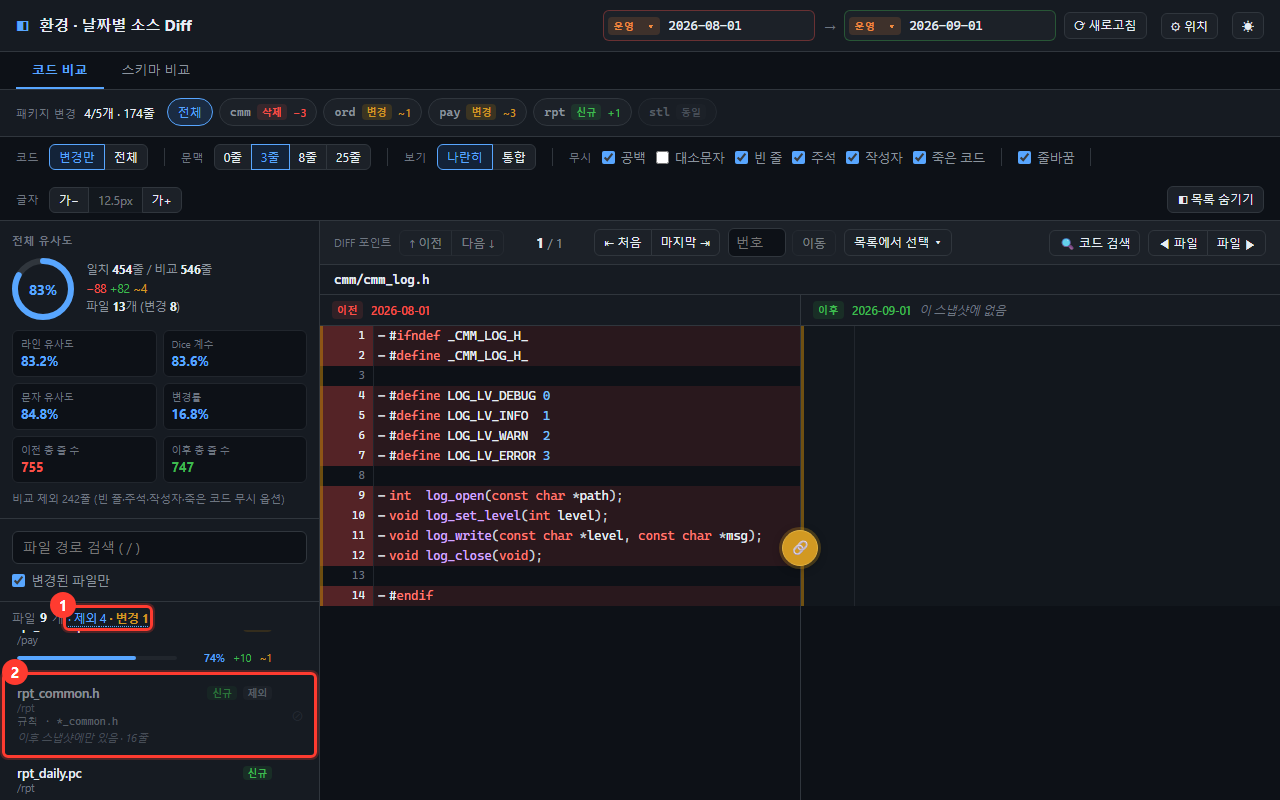
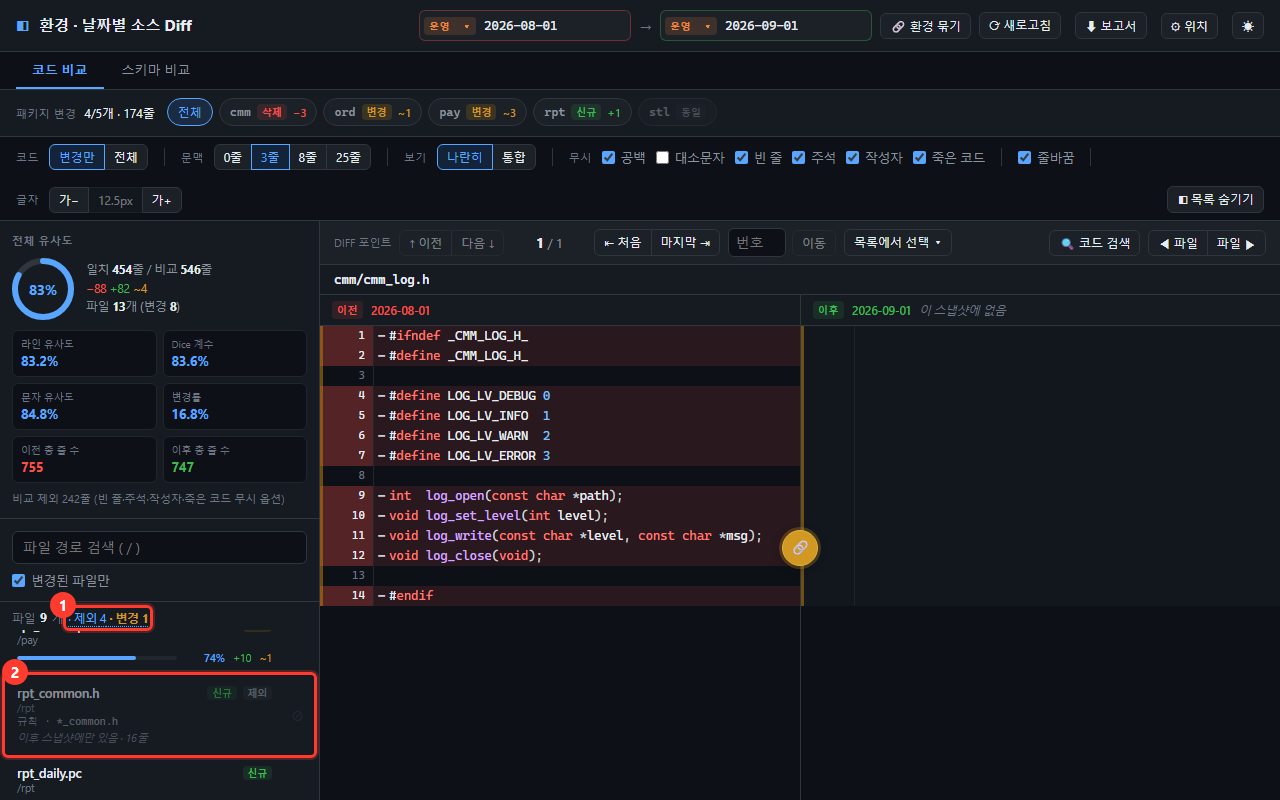
docs: 보고서 내려받기를 문서에 반영하고 그림을 다시 찍는다
사용설명서에 "8. 보고서 내려받기" 를 새로 두고 뒤의 장 번호를 한 칸씩 밀었다
(안에서 걸던 "아래 9번" 도 10번으로). 받은 파일이 어떻게 생겼는지 예시를 그대로
싣는다 — 공지에 붙이기 전에 무엇이 들어가는지 먼저 알아야 한다. 화면 한눈에 보기에서도
8번으로 건너가게 했다.

README 에는 개발자가 알아야 할 것만 — 서버를 안 거친다(API 변경 없음), 숫자는 화면과
같은 기준, 스키마는 누를 때 읽는다, 본문은 안 싣는다, BOM. 폴더 구조에 report/ 를 더했다.

헤더에 버튼이 둘(🔗 환경 묶기 · ⬇ 보고서) 늘어 그림 8장을 다시 찍고, 버튼 자리를
짚는 09-report 를 더했다. 그 장면은 비교가 끝나 버튼이 살아난 뒤에 찍는다.

diff --git a/scripts/shot.html b/scripts/shot.html
@@ -185,6 +185,12 @@
           mark(doc, folded, 2, 4)
         },
 
+        /* 9. 보고서 내려받기 — 버튼 자리. 비교가 끝나 버튼이 살아난 뒤에 찍는다 */
+        async report(doc) {
+          await until(() => !byText(doc, 'button', '보고서')?.disabled)
+          mark(doc, byText(doc, 'button', '보고서'), 1, 4)
+        },
+
         /* 6. 코드 비교 화면 */
         async diff(doc) {
           mark(doc, '.optionbar', 1, 3)
@@ -195,6 +201,7 @@
 
       const ENV = {
         crossenv: { left: 'prod', right: 'test' },
+        report: { left: 'prod', right: 'test' },
         schema: { left: 'prod', right: 'test' },
       }
 

diff --git a/README.md b/README.md
@@ -292,7 +292,7 @@ export const DEFAULT_ENV_ID = 'prod'
 
 | 영역 | 하는 일 |
 | ---- | ------- |
-| 상단 헤더 | 좌우 각각의 **환경 + 날짜 폴더** 선택, 환경 묶기(🔗), 외부 폴더 다시 읽기(⟳) |
+| 상단 헤더 | 좌우 각각의 **환경 + 날짜 폴더** 선택, 환경 묶기(🔗), 외부 폴더 다시 읽기(⟳), **보고서 내려받기(⬇)** |
 | 모드 탭 | `코드 비교` / `스키마 비교`. 좌우 선택은 그대로 두고 아래 3단만 갈린다 |
 | 패키지 변경 밴드 | 어느 패키지가 신규·삭제·변경됐는지 한 줄 요약. 칩을 누르면 그 패키지로 파일 목록이 좁혀진다 |
 | 옵션 바 | 코드 표시 범위(변경만/전체), 문맥 줄 수, 나란히/통합, 무시 옵션(아래), **코드 글자 크기** |
@@ -538,6 +538,20 @@ IX_*_TMP          이름이 맞는 인덱스·제약 (어느 테이블이든)
 
 ---
 
+## 보고서 내려받기
+
+헤더의 **⬇ 보고서** 가 지금 비교를 공지용 md 로 내려받는다 (`src/features/report/`).
+맨 위 표(환경 · 종류 · 변경 건수 · 날짜) 하나와 바뀐 파일·테이블 목록뿐이다.
+
+- **서버를 거치지 않는다.** 화면이 들고 있는 비교 결과로 만들어 브라우저에서 바로 받는다. API 변경 없음.
+- **숫자는 화면과 같다.** 제외 목록·내 목록·스키마 종류 토글로 접은 것은 빼고 센다.
+- **스키마는 누를 때 읽는다.** 스키마는 탭을 열 때만 읽으므로, 코드 탭에서 누르면 화면과 같은
+  순서(날짜 목록 → 날짜 맞추기 → 대조 → 접기)로 그 자리에서 읽는다. 실패하면 소스만 담고 알림을 띄운다.
+- **소스 본문은 넣지 않는다.** 공지로 퍼지는 문서라 코드가 실려 돌아다니면 안 된다.
+- UTF-8 BOM 을 붙인다 — 없으면 윈도우 메모장 일부 버전이 한글을 깨뜨린다.
+
+---
+
 ## 단축키
 
 | 키 | 동작 |
@@ -597,6 +611,7 @@ src/
     files/                  파일 목록
     diff/                   diff 뷰어 · 이동 · 검색
     summary/                전체 유사도 카드
+    report/                 공지용 md 보고서 만들기 (소스·스키마 변경 건수와 목록)
 
 sample-code/                예시 외부 폴더
   prod/                     운영 — 날짜 스냅샷 4개

diff --git a/docs/한일/2026-10-21.md b/docs/한일/2026-10-21.md
@@ -20,3 +20,29 @@
 ## 외부 API 변경
 
 없음. 환경은 원래 루트 경로에 붙어 나가는 값이라 서버 요청 모양이 그대로다.
+
+---
+
+# 2026-10-21 — 비교 결과를 공지용 md 보고서로 내려받는다
+
+## 왜
+
+비교 결과를 사내에 공지하려면 화면을 캡처하거나 숫자를 손으로 옮겨 적어야 했다.
+옮기다 틀린 숫자가 공지로 나가면 바로잡기 어렵다.
+
+## 무엇을 했나
+
+- 헤더에 **⬇ 보고서** 버튼을 넣었다. 맨 위 표(환경 · 종류 · 변경 건수 · 날짜)와 바뀐 파일·테이블 목록만 담는다.
+  사용자와 템플릿을 먼저 맞춘 뒤 서론·목적·비교 기준·링크는 빼고 간단하게 정했다.
+- 숫자는 화면과 같은 기준이다 — 제외 목록·내 목록·스키마 종류 토글로 접은 것은 빼고 센다.
+  예시 폴더로 확인: 소스 12건(화면 "변경 12"), 스키마 3건(밴드 "3/7").
+- 스키마는 탭을 열 때만 읽어서, 누를 때 화면과 같은 순서(목록 → 날짜 맞추기 → 대조 → 접기)로 읽는다.
+  실패하면 소스만 담아 받고 "스키마는 보고서에서 빠졌습니다" 알림을 띄운다 — 모르고 공지하면 "스키마 변경 없음" 으로 읽힌다.
+- 소스 본문은 넣지 않는다. UTF-8 BOM 을 붙여 메모장에서 한글이 깨지지 않게 했다.
+- 버튼이 늘어 1024px 에서 헤더가 두 줄이 됐다 — 1100px 이하에서는 앱 이름 글자를 접어 한 줄로 맞췄다.
+- 테스트: `report.test.ts`(표 내용·정렬·생략·이스케이프·파일 이름), `schemaForReport.test.ts`(날짜 맞추기·환경 바뀐 뒤 바로잡기·접기·실패 전달, `fetch` 만 대체).
+- 사용설명서 8장 신설(이후 장 번호 한 칸씩 밀림), 스크린샷 09-report 추가, README 갱신.
+
+## 외부 API 변경
+
+없음. 기존 `GET /api/v1/schemas/snapshots` · `GET /api/v1/schemas` 를 그대로 부르고, 파일은 브라우저에서 만든다.
